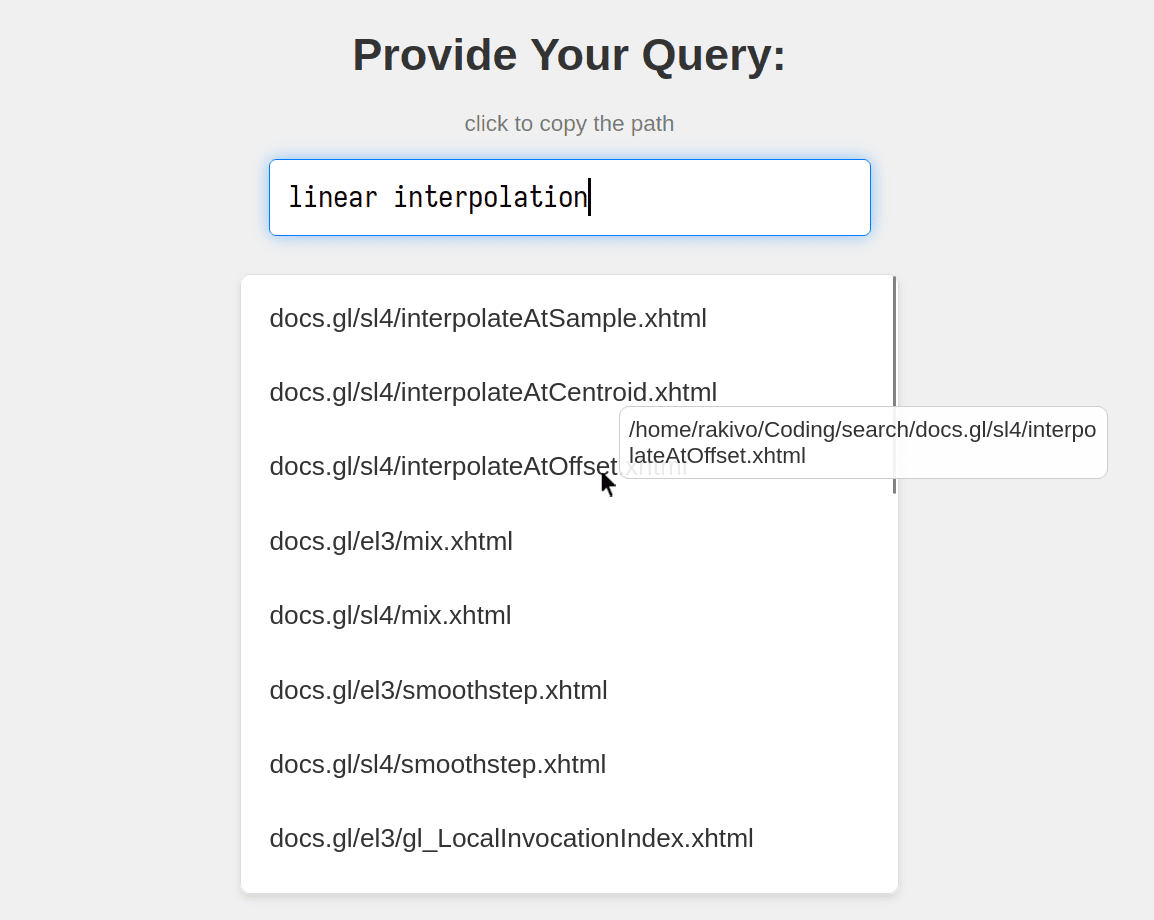
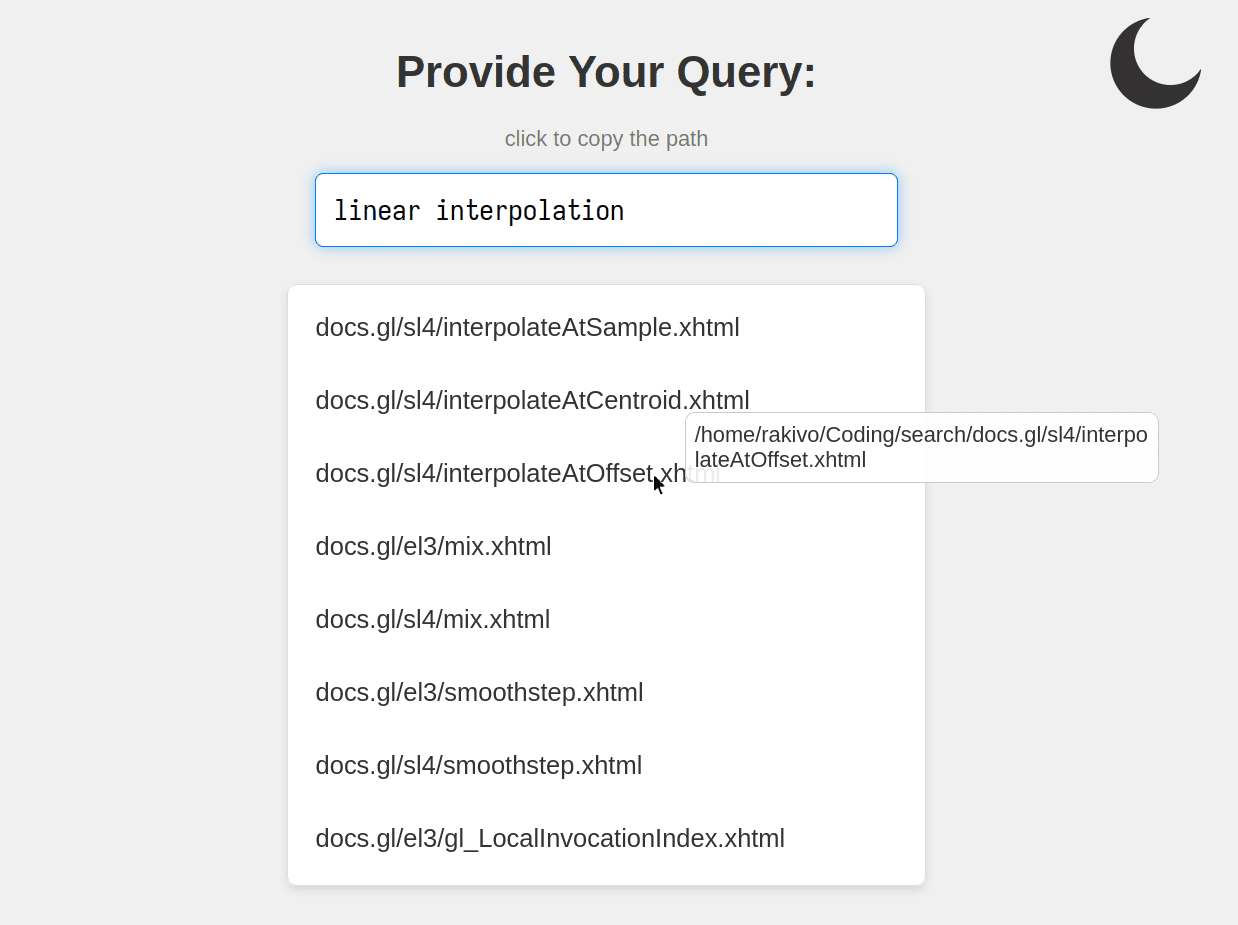
Add half-moon at the top-right corner that enables dark mode, update preview

diff --git a/src/styles.css b/src/styles.css
@@ -9,9 +9,42 @@ body {
     background-color: #f0f0f0;
 }
 
+body.dark-mode {
+    background-color: #222;
+    color: #fff;
+}
+
 h1 {
     font-size: 24px;
     color: #333;
+}
+
+body.dark-mode h1 {
+    color: #fff;
+}
+
+.moon {
+    position: absolute;
+    top: 20px;
+    right: 20px;
+    height: 40px; 
+    width: 40px; 
+    box-shadow: -8px 8px 0 5px rgb(50, 50, 50);
+    border-radius: 50%;
+}
+
+.clickable-moon {
+    position: absolute;
+    top: 20px;
+    right: 20px;
+    width: 55px;
+    height: 55px;
+    background-color: transparent;
+    cursor: pointer;
+}
+
+body.dark-mode .moon {
+    box-shadow: -10px 10px 0 5px gray;
 }
 
 input[type="text"] {
@@ -22,6 +55,13 @@ input[type="text"] {
     font-size: 16px;
     box-shadow: 0 2px 4px rgba(0, 0, 0, 0.1);
     transition: all 0.2s;
+}
+
+body.dark-mode input[type="text"] {
+    background-color: #333;
+    color: white;
+    border-color: #666;
+    box-shadow: 0 0 8px rgba(255, 255, 255, 0.4);
 }
 
 input[type="text"]:focus {
@@ -43,11 +83,20 @@ input[type="text"]:focus {
     position: relative;
 }
 
+body.dark-mode #results {
+    background-color: #333;
+    border-color: #666;
+}
+
 #results span {
     display: block;
     margin-bottom: 5px;
     font-size: 14px;
     color: #333;
+}
+
+body.dark-mode #results span {
+    color: white;
 }
 
 #results:empty {
@@ -65,10 +114,14 @@ input[type="text"]:focus {
     display: none;
     max-width: 250px;
     font-size: 12px;
-
     white-space: pre-wrap;
     word-break: break-all;
     overflow-wrap: break-word;
+}
+
+body.dark-mode .path-preview {
+    background-color: rgba(24, 24, 24, 0.95);
+    color: white;
 }
 
 .copy-text {
@@ -76,4 +129,8 @@ input[type="text"]:focus {
     opacity: 0.5;
     margin-bottom: 12px;
     text-align: center;
+}
+
+body.dark-mode .copy-text {
+    color: white;
 }

diff --git a/src/script.js b/src/script.js
@@ -7,6 +7,11 @@ const PATH_PREVIEW = document.createElement("div");
 PATH_PREVIEW.classList.add("path-preview");
 document.body.appendChild(PATH_PREVIEW);
 
+const moon = document.querySelector(".clickable-moon");
+moon.addEventListener("click", () => {
+    document.body.classList.toggle("dark-mode");
+});
+
 async function search(prompt) {
     const results = document.getElementById("results");
     results.innerHTML = "";
@@ -28,6 +33,7 @@ async function search(prompt) {
         item.textContent = path;
 
         item.addEventListener("mouseenter", () => {
+            item.style.cursor = "copy";
             PATH_PREVIEW.textContent = full_path;
             PATH_PREVIEW.style.display = "block";
             PATH_PREVIEW.style.width = "auto";
@@ -44,12 +50,7 @@ async function search(prompt) {
         });
 
         item.addEventListener("click", () => {
-            navigator.clipboard.writeText(full_path).then(() => {
-                document.body.style.cursor = "copy";
-                setTimeout(() => {
-                    document.body.style.cursor = "default";
-                }, 150);
-            }).catch(err => {
+            navigator.clipboard.writeText(full_path).catch(err => {
                 console.error('could not to copy: ', err);
             });
         });

diff --git a/src/query.html b/src/query.html
@@ -5,6 +5,8 @@
     <link rel="stylesheet" href="styles.css"/>
   </head>
   <body>
+    <div class="clickable-moon"></div>
+    <div class="moon"></div>
     <h1>Provide Your Query:</h1>
     <div class="copy-text">click to copy the path</div>
     <input id="query" type="text"/>
